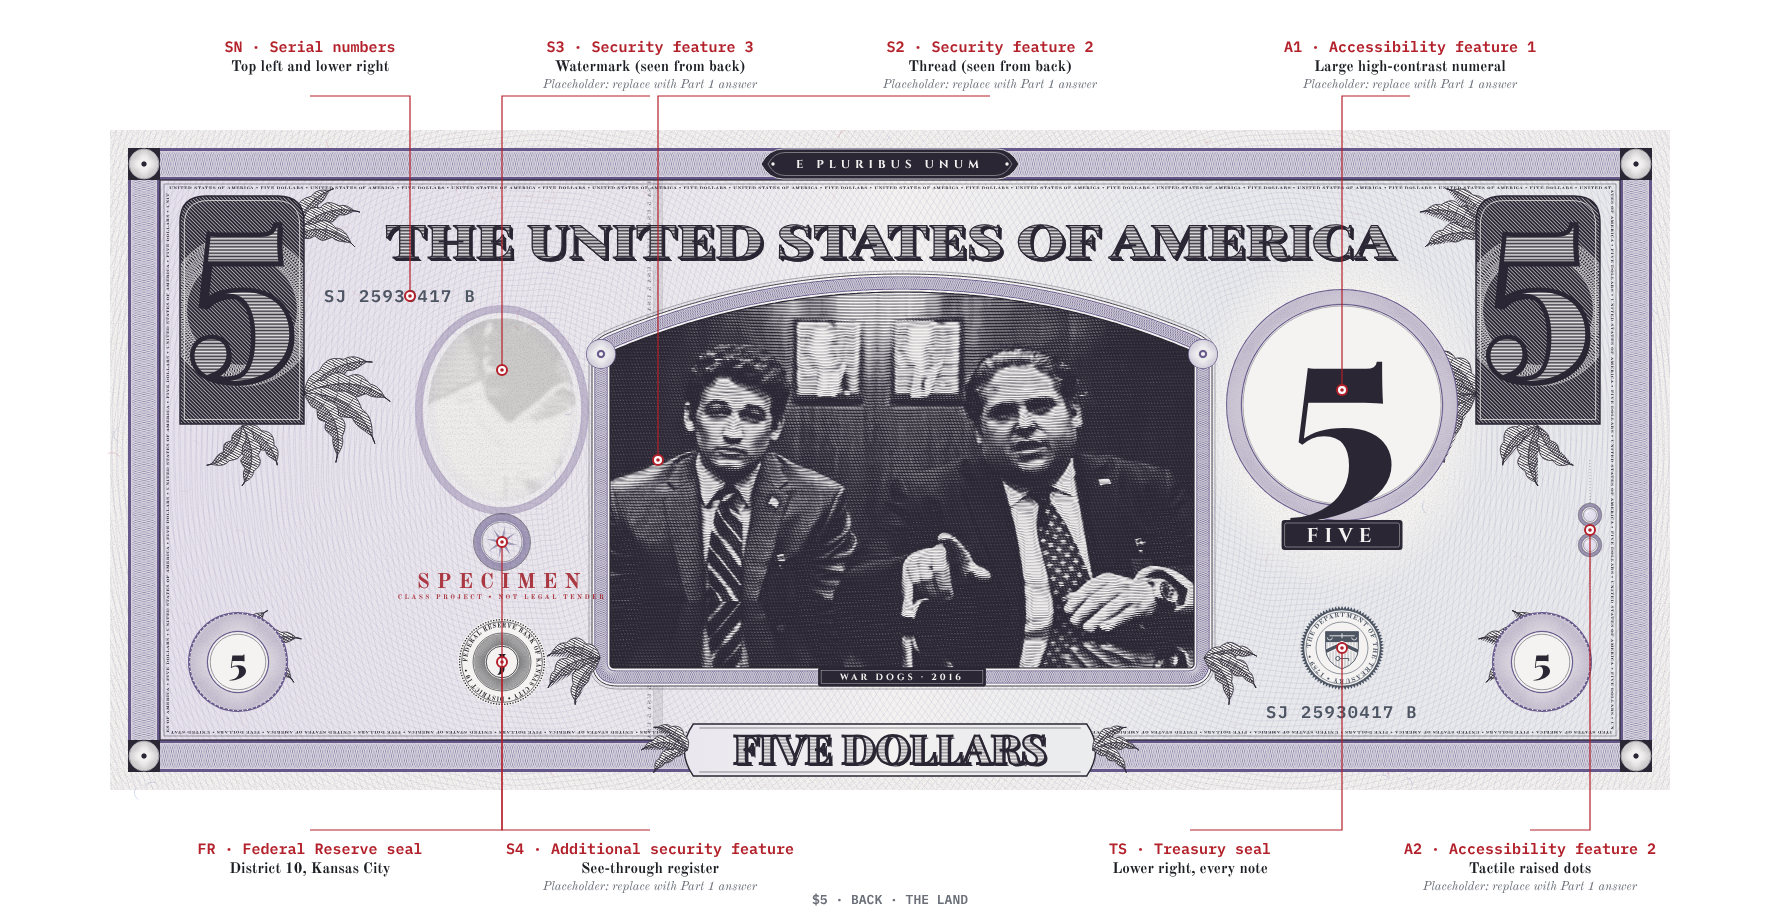
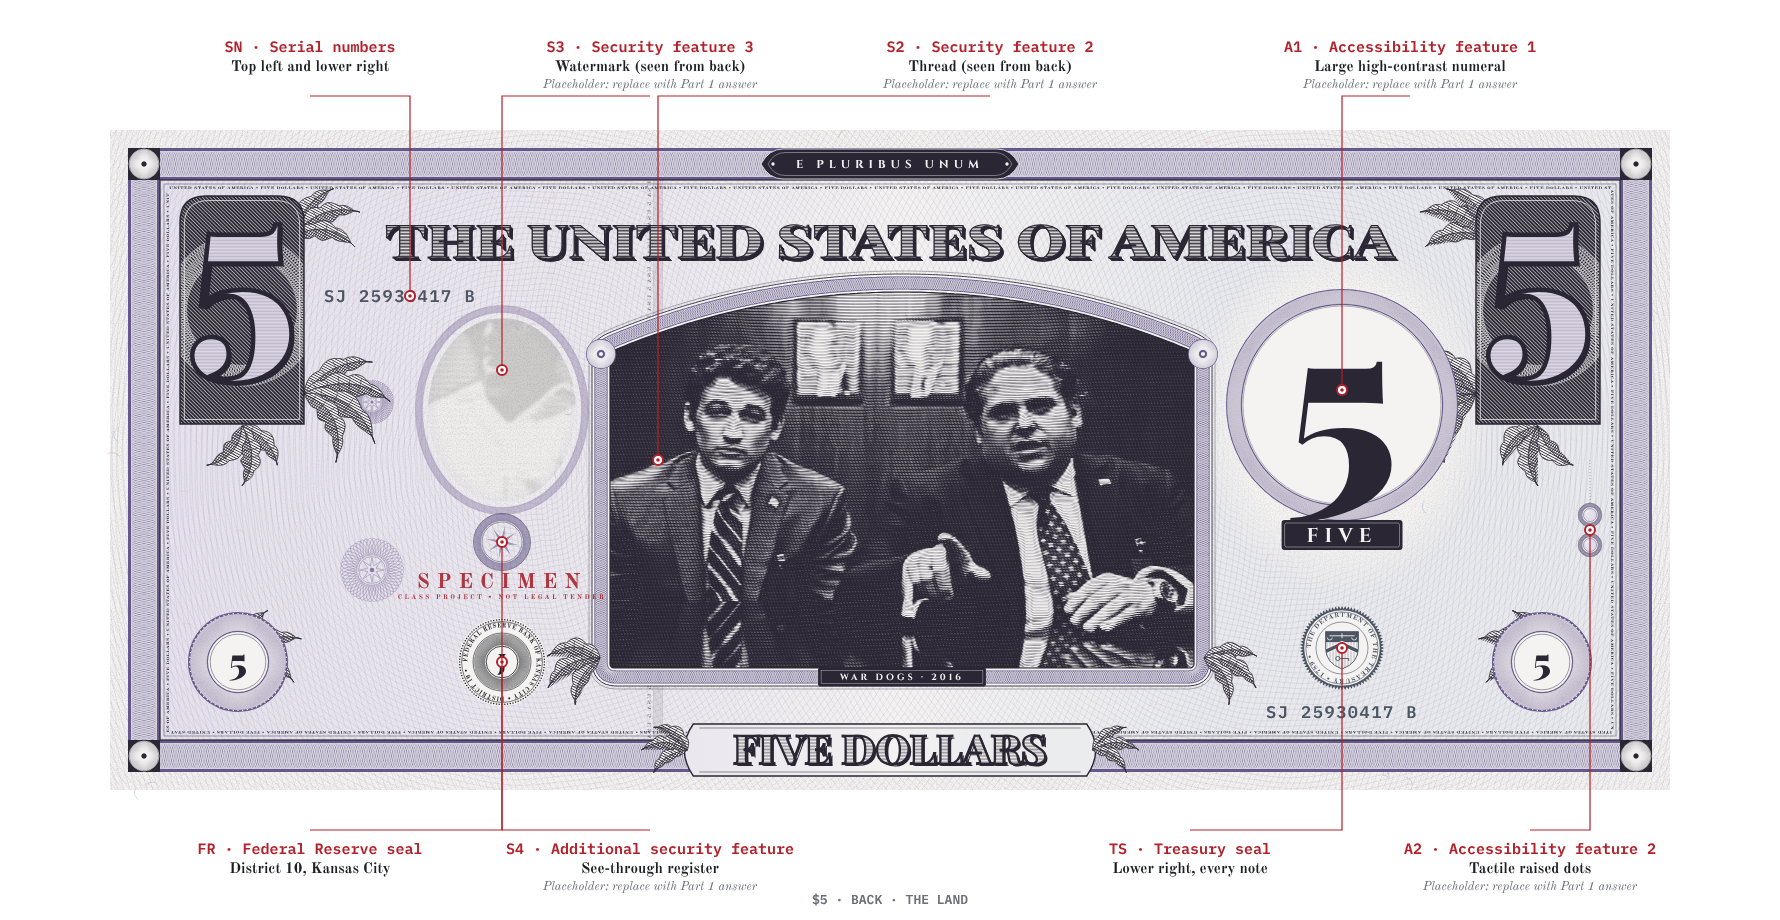
Brighten corner numerals and add lathe-flower patterns in open areas of every note
Claude-Session: https://claude.ai/code/session_015KBLhp8b1QN2JqUJfMzhqz

diff --git a/generator/design/ornament.js b/generator/design/ornament.js
@@ -51,13 +51,14 @@ function spray(n, id, root, dirDeg, len, count, spread, width, mirror = false) {
 }
 
 /* ---------- shaded headline: extruded shadow, paper face, ruled fill, outline ---------- */
-function slabText(n, id, text, cx, y, size, width, { depth = 3.2, family = FONT.num, weight = 900, ls = 0 } = {}) {
+function slabText(n, id, text, cx, y, size, width, { depth = 3.2, family = FONT.num, weight = 900, ls = 0, bright = false } = {}) {
   const st = `font-family:${family};font-weight:${weight};font-size:${size}px;letter-spacing:${ls}px`;
   const fit = width ? ` textLength="${width}" lengthAdjust="spacingAndGlyphs"` : "";
   let o = "";
   for (let k = depth; k > 0; k -= .5) o += `<text x="${f(cx + k)}" y="${f(y + k)}" text-anchor="middle" style="${st}"${fit} fill="${n.plate}">${esc(text)}</text>`;
   o += `<text x="${cx}" y="${y}" text-anchor="middle" style="${st}"${fit} fill="${n.paper}">${esc(text)}</text>`;
-  o += `<text x="${cx}" y="${y}" text-anchor="middle" style="${st}"${fit} fill="url(#${id}-hatch)" opacity=".9">${esc(text)}</text>`;
+  if (bright) o += `<text x="${cx}" y="${y}" text-anchor="middle" style="${st}"${fit} fill="${n.tint1}">${esc(text)}</text>`;
+  o += `<text x="${cx}" y="${y}" text-anchor="middle" style="${st}"${fit} fill="url(#${id}-hatch)" opacity="${bright ? .18 : .9}">${esc(text)}</text>`;
   o += `<text x="${cx}" y="${y}" text-anchor="middle" style="${st}"${fit} fill="none" stroke="${n.plate}" stroke-width="${f(size * .022)}">${esc(text)}</text>`;
   return o;
 }
@@ -103,7 +104,7 @@ function tallCounter(n, id, x0, y0, w, h, right) {
   o += `<path d="${shape}" fill="none" stroke="${n.plate}" stroke-width="1.4"/>`;
   const fs = s.length === 1 ? h * .9 : s.length === 2 ? w * .82 : w * .56;
   const fw = s.length === 1 ? null : w * .86;
-  o += slabText(n, id, s, cx, y0 + h / 2 + fs * .34, fs, fw, { depth: 3 });
+  o += slabText(n, id, s, cx, y0 + h / 2 + fs * .34, fs, fw, { depth: 3, bright: true });
   return o;
 }
 /* small round counter for the lower corners */
@@ -153,3 +154,17 @@ function memorial(n, id, cx, cy, r, img) {
     <text style="font:700 10px ${FONT.caps};letter-spacing:3.4px" fill="${n.plate}" text-anchor="middle"><textPath href="#${id}-memb" startOffset="50%">SEPTEMBER 11, 2001</textPath></text>`;
   return o;
 }
+
+/* small lathe rosettes printed faintly in the open areas of the note */
+function filler(n, cx, cy, r, kind = 0) {
+  // open, crisp lathe flower: two interlaced petal curves, a ring and an eight-point star
+  const ink = n.primary;
+  let o = rosetteRing(cx, cy, r * .45, r, { lobes: [8, 10, 12][kind % 3], count: 3, stroke: ink, sw: .45 });
+  o += rings(cx, cy, [r * .42], ink, .5);
+  let star = "";
+  for (let i = 0; i < 16; i++) { const a = i / 16 * TAU - Math.PI / 2, rr = i % 2 ? r * .14 : r * .38; star += (i ? "L" : "M") + f(cx + rr * Math.cos(a)) + " " + f(cy + rr * Math.sin(a)); }
+  o += `<path d="${star}Z" fill="none" stroke="${ink}" stroke-width=".5"/>`;
+  o += `<circle cx="${cx}" cy="${cy}" r="${r * .07}" fill="${ink}"/>`;
+  return `<g opacity=".75">${o}</g>`;
+}
+function fillers(n, spots) { return spots.map(([x, y, r], i) => filler(n, x, y, r, i)).join(""); }

diff --git a/generator/design/notes.js b/generator/design/notes.js
@@ -69,6 +69,7 @@ function front(n, img, memImg) {
   o += plainText(n.plateNo, 1346, 210, `700 11px ${FONT.small}`, n.plate, { anchor: "end" });
   o += tallCounter(n, id, 70, 66, 124, 228, false) + tallCounter(n, id, W - 194, 66, 124, 228, true);
   o += roundCounter(n, id, 128, H - 128, 50, false);
+  o += fillers(n, [[562, 232, 34], [998, 232, 34], [1318, 470, 46], [272, 560, 18], [998, 470, 30], [562, 470, 30]]);
   o += oviNumeral(n, id, 1488, 600, s.length === 3 ? 92 : 118);
   o += banner(n, id, n.words);
   o += specimen(n, G.wm.cx, 576);
@@ -92,6 +93,7 @@ function back(n, img, frontImg, memImg) {
   o += watermarkSurround(n, wmx, G.wm.cy, G.wm.rx, G.wm.ry);
   o += watermarkWindow(n, id, wmx, G.wm.cy, G.wm.rx, G.wm.ry, frontImg, true);
   o += register(n, wmx, G.reg.cy, G.reg.r, true);
+  o += fillers(n, [[262, 440, 32], [262, 272, 22], [1232, 590, 0]].filter(p => p[2]));
   o += fedSeal(n, id, wmx, 532, 44);
   o += tallCounter(n, id, 70, 66, 124, 228, false) + tallCounter(n, id, W - 194, 66, 124, 228, true);
   o += numeralPanel(n, id, panel, s, n.word1);
